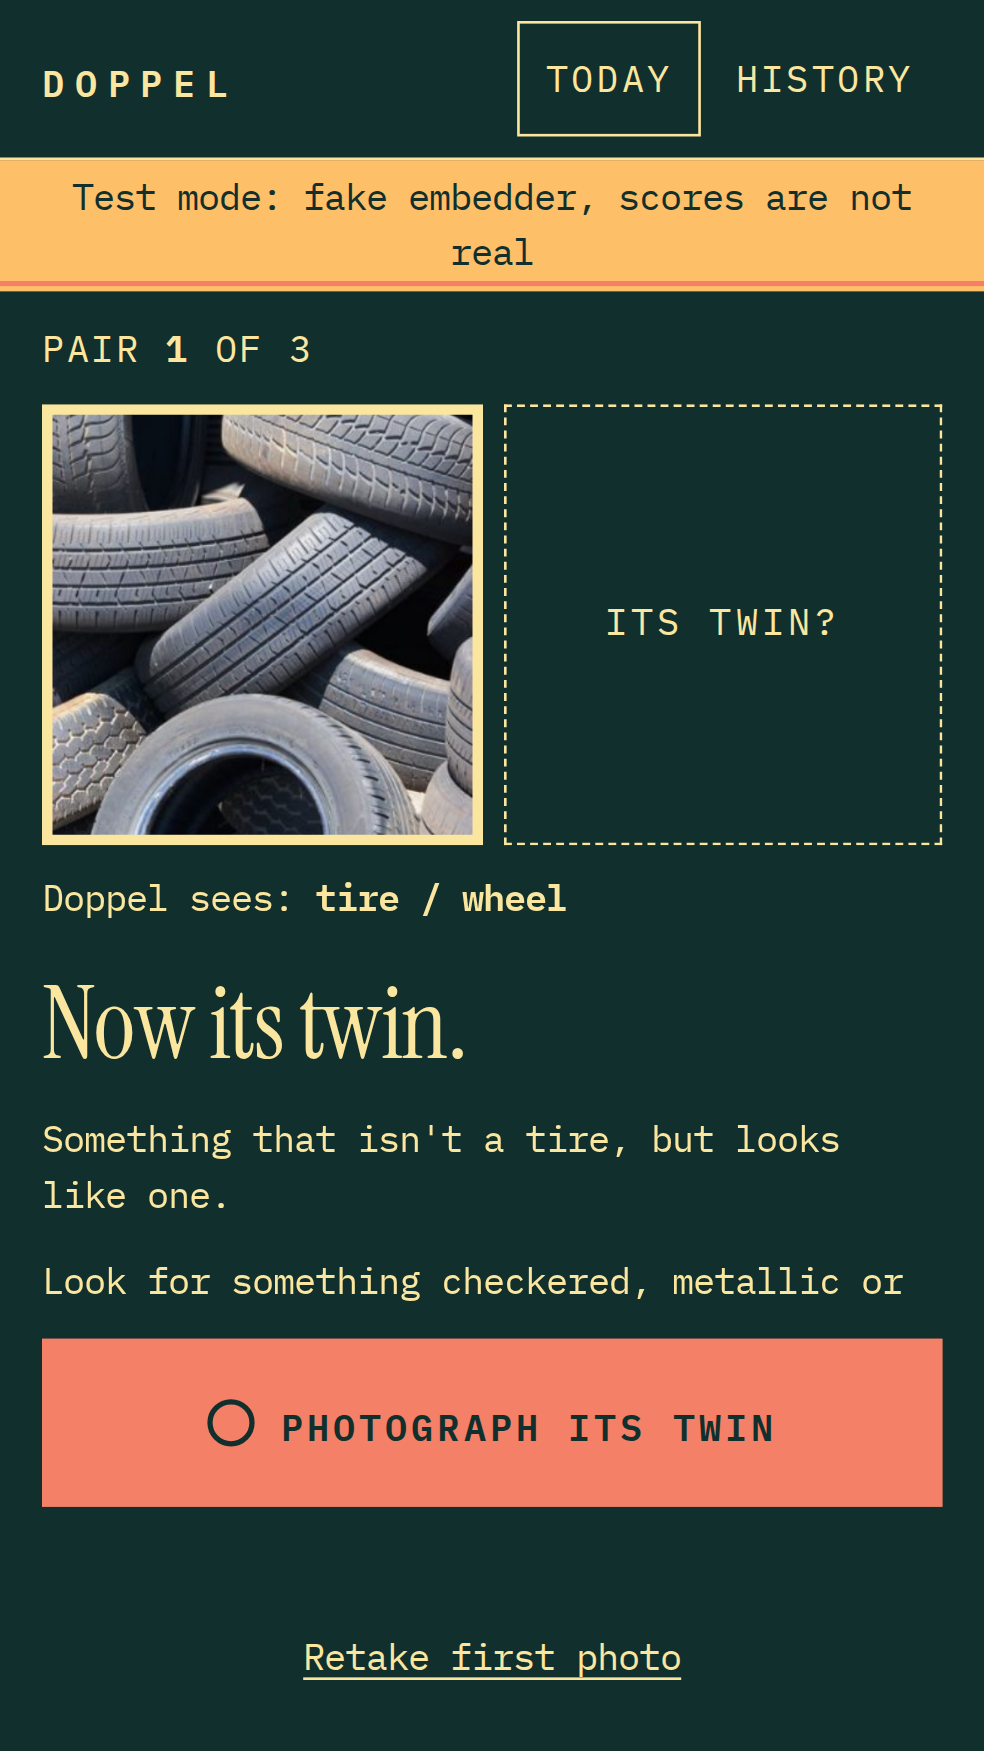
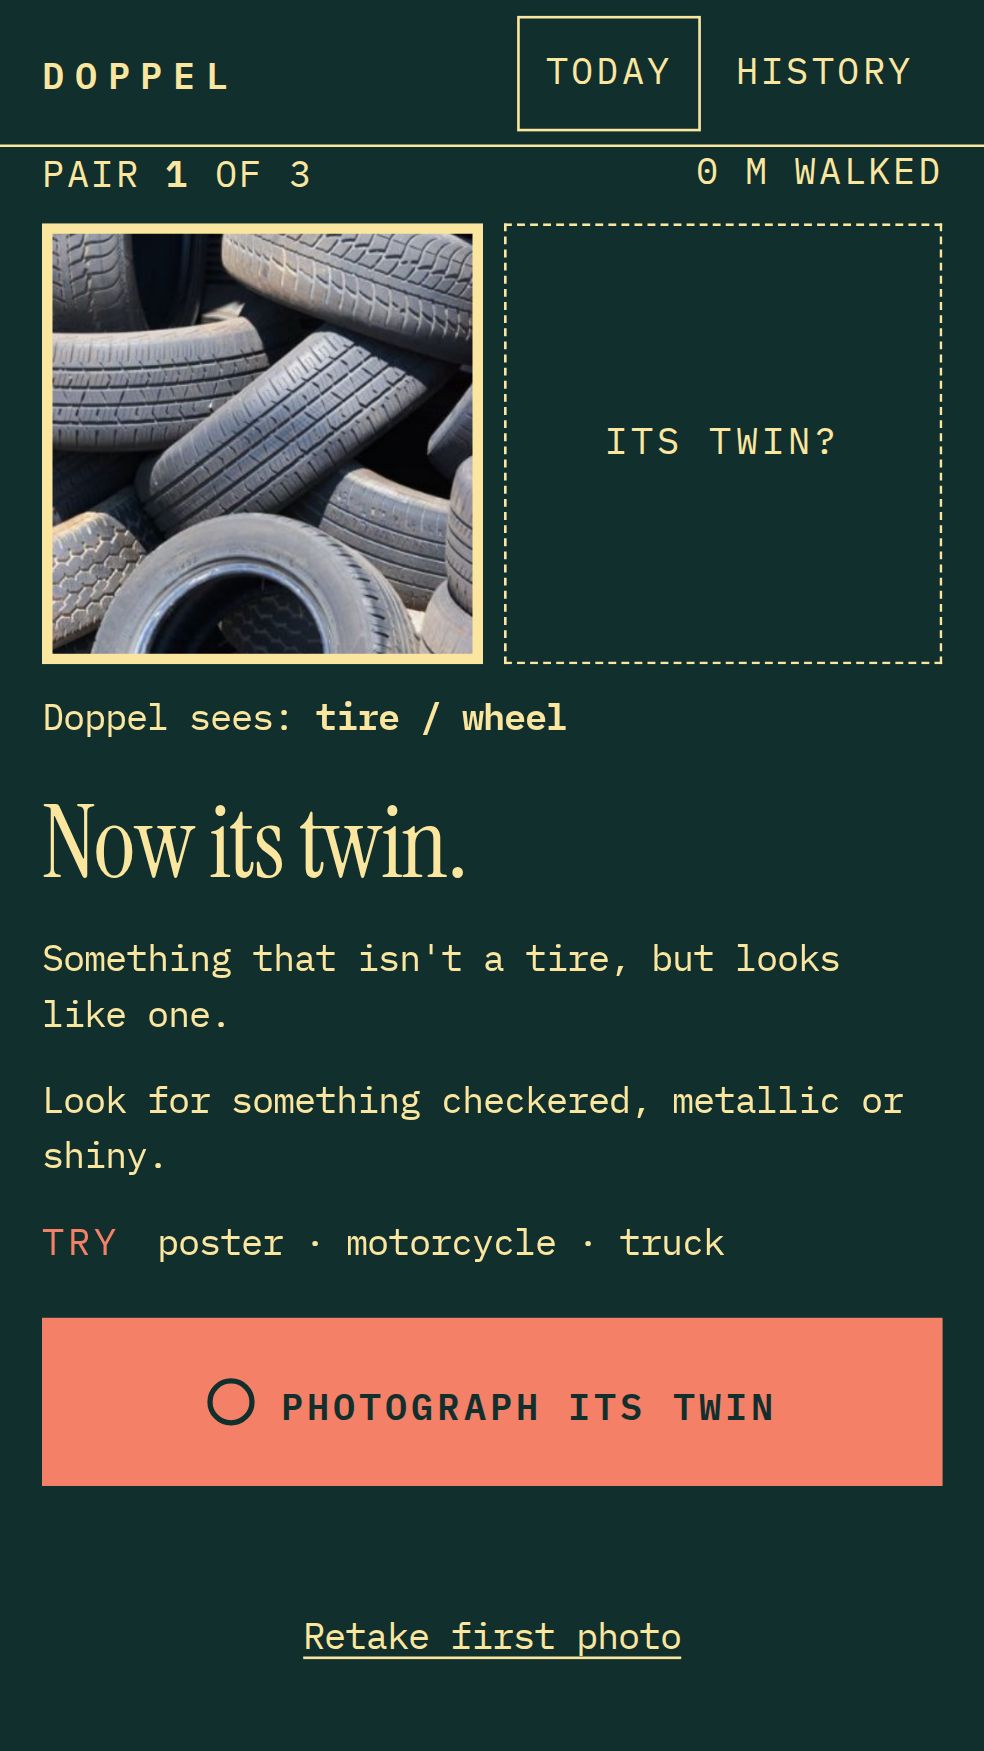
F7: one app shell: sticky header on every screen, one HUD row, frames at the same y

diff --git a/web/src/ui/screens.ts b/web/src/ui/screens.ts
@@ -15,11 +15,20 @@ const clock = (ms: number) => {
   return `${Math.floor(s / 60)}:${String(s % 60).padStart(2, "0")}`;
 };
 
+/**
+ * The one HUD row under the header on every game screen: "PAIR n OF 3" on the
+ * left, the phase's readout on the right (theme, walk timer/metres, metres walked).
+ */
 const hud = (pair: number, right = "") => `
   <div class="hud" aria-label="Progress">
     <span>PAIR <b data-testid="pair-n">${pair}</b> OF ${PAIRS_PER_DAY}</span>
-    <span>${right}</span>
+    <span class="hud-right" data-testid="hud-right">${right}</span>
   </div>`;
+
+const themeReadout = (theme?: string) => (theme ? `<span data-testid="theme">Today: ${esc(theme)}</span>` : "");
+const walkedReadout = (meters: number) => `<span data-testid="walked">${meters} M WALKED</span>`;
+/** Walk: the timer while GPS isn't usable, otherwise metres walked on this walk. */
+export const walkHud = (w: WalkStatus) => (w.mode === "gps" ? `${w.meters} M WALKED` : `${clock(w.msLeft)} LEFT`);
 
 /** A 4-step scale, Strangers to Uncanny, with only the current step filled. Always shown next to the band name, so it never rests on color alone. */
 export const bandMarks = (b: Band) => {
@@ -75,27 +84,25 @@ export function practiceView(p: Practice): string {
   const b = band(p.score);
   return `
     <div class="practice" aria-label="Practice reveal" data-testid="practice">
-      <p class="label" id="practice-label">A practice pair</p>
       <div class="pair together" id="practice-pair">
         ${slot("a", stack("practice-a", p.first.label, true), "", b)}
         ${slot("b", stack("practice-b", p.twin.label, true), "", b)}
       </div>
+      <p class="label" id="practice-label">A practice pair</p>
       <p class="labels">${esc(p.first.label)} <span aria-label="and">↔</span> ${esc(p.twin.label)}</p>
       <p class="score compact" data-value="${p.score}"><span class="n">${p.score}</span><span class="of">/100</span> <span class="band-inline">${bandMarks(b)} ${BAND_NAMES[b].toUpperCase()}</span></p>
       <p class="shared"><span class="label">What they share</span> Both: ${p.shared.map(esc).join(" · ")}</p>
     </div>`;
 }
 
-const themeLine = (theme?: string) => (theme ? `<p class="theme" data-testid="theme"><span class="label">Today</span> ${esc(theme)}</p>` : "");
 
 export function firstView(pair: number, ideas: string[], firstRun: boolean, practice?: Practice, theme?: string): string {
   if (firstRun && practice) {
     return `
     <section class="screen first" aria-label="First photo">
-      ${hud(pair)}
-      <h1 class="voice lede">Find two different things that look the same. Outside.</h1>
+      ${hud(pair, themeReadout(theme))}
       ${practiceView(practice)}
-      ${themeLine(theme)}
+      <h1 class="voice lede">Find two different things that look the same. Outside.</h1>
       <p class="sub privacy">Photos never leave your phone. Point it at things, not people.</p>
       <details class="ideas">
         <summary>Need an idea?</summary>
@@ -106,14 +113,13 @@ export function firstView(pair: number, ideas: string[], firstRun: boolean, prac
   }
   return `
     <section class="screen first" aria-label="First photo">
-      ${hud(pair)}
+      ${hud(pair, themeReadout(theme))}
       <div class="pair empty">
         ${slot("a", `<span class="slot-word">this</span>`)}
         ${slot("b", `<span class="slot-word">its twin</span>`)}
       </div>
       <h1 class="voice">${pair === 1 ? "Find two different things that look the same." : "Again. Start with anything outside."}</h1>
       <p class="sub">${pair === 1 ? "Photograph anything outside. Then walk, and find its twin." : "Then walk, and find its twin."}</p>
-      ${themeLine(theme)}
       ${firstRun ? `<p class="sub privacy">Photos never leave your phone. Point it at things, not people.</p>` : ""}
       <details class="ideas">
         <summary>Need an idea?</summary>
@@ -133,7 +139,7 @@ export const tryThese = (tries: string[]) => (tries.length ? `<p class="sub trie
 export function walkView(pair: number, label: string, w: WalkStatus, looks: string[] = [], alt?: string, tries: string[] = [], again = false): string {
   return `
     <section class="screen walk" aria-label="Walk">
-      ${hud(pair, `${w.meters} M WALKED`)}
+      ${hud(pair, `<span data-testid="walk-hud">${walkHud(w)}</span>`)}
       <div class="pair">
         ${slot("a", `<canvas id="photo-a" aria-label="Your first photo"></canvas>`, "", "neutral")}
         ${slot("b", `<div class="countdown">${walkReadout(w)}</div>`)}
@@ -158,10 +164,10 @@ export function walkReadout(w: WalkStatus): string {
 }
 
 
-export function twinView(pair: number, label: string, looks: string[] = [], alt?: string, tries: string[] = [], again = false): string {
+export function twinView(pair: number, label: string, looks: string[] = [], alt?: string, tries: string[] = [], again = false, meters = 0): string {
   return `
     <section class="screen twin" aria-label="Twin photo">
-      ${hud(pair)}
+      ${hud(pair, walkedReadout(meters))}
       <div class="pair">
         ${slot("a", `<canvas id="photo-a" aria-label="Your first photo"></canvas>`, "", "neutral")}
         ${slot("b", `<span class="slot-word">its twin?</span>`)}
@@ -181,11 +187,11 @@ export interface RevealExtras {
   secondKept: boolean; // after two tries: was the second twin the better one?
 }
 
-export function revealView(pair: number, p: Required<Pick<PairState, "first" | "twin" | "result">>, last: boolean, x: RevealExtras = { canRetry: false, tries: 1, secondKept: false }): string {
+export function revealView(pair: number, p: Required<Pick<PairState, "first" | "twin" | "result">>, last: boolean, x: RevealExtras = { canRetry: false, tries: 1, secondKept: false }, meters = 0): string {
   const r = p.result;
   return `
     <section class="screen reveal" aria-label="Reveal" data-band="${r.band}">
-      ${hud(pair)}
+      ${hud(pair, walkedReadout(meters))}
       <div class="pair together" id="pair">
         ${slot("a", stack("a", p.first.label, true), "", r.band)}
         ${slot("b", stack("b", p.twin.label, true), "", r.band)}
@@ -215,7 +221,7 @@ export function doneView(pairs: DonePair[], best: number, meters: number, nextDa
   const b = pairs[best];
   return `
     <section class="screen done" aria-label="Done for today">
-      <div class="hud"><span>DONE FOR TODAY</span><span data-testid="walked">${meters} M WALKED</span></div>
+      ${hud(pairs.length, walkedReadout(meters))}
       <p class="label">TODAY'S DOPPEL</p>
       <div class="pair together best">
         ${slot("a", stack(`best-a`, b.first), "", b.band)}

diff --git a/web/tests/e2e/shell.spec.ts b/web/tests/e2e/shell.spec.ts
@@ -1,0 +1,100 @@
+import { expect, test, type Page } from "@playwright/test";
+import path from "node:path";
+import { expectAccessible, expectNoHorizontalScroll, fixture } from "./helpers";
+
+// One app shell: the same header on every phase and route, one HUD row on every
+// game screen, and photo frames that start at the same y (no layout jump).
+const MEDIA = path.join(import.meta.dirname, "../../../docs/media/phases");
+
+async function shoot(page: Page, rel: string) {
+  await expect(page.locator("#photo")).toBeEnabled();
+  await page.locator("#photo").setInputFiles(fixture(rel));
+}
+
+for (const size of [{ width: 390, height: 844 }, { width: 375, height: 667 }]) {
+  test(`header, HUD and frames line up through a whole day at ${size.width}x${size.height}`, async ({ page }) => {
+    test.setTimeout(90_000);
+    await page.setViewportSize(size);
+    await page.clock.install({ time: new Date("2026-10-11T15:00:00-04:00") });
+    await page.goto("/?embedder=fake#/");
+    const headerY: number[] = [], frameY: Record<string, number> = {};
+    let n = 0;
+
+    const check = async (phase: string, opts: { hud?: boolean; frame?: boolean } = {}) => {
+      await page.evaluate(() => window.scrollTo(0, 0));
+      const header = page.locator(".topbar");
+      await expect(header).toBeVisible();
+      await expect(header.getByRole("link", { name: "DOPPEL" })).toBeVisible();
+      await expect(header.getByRole("link", { name: "Today" })).toBeVisible();
+      await expect(header.getByRole("link", { name: "History" })).toBeVisible();
+      const hb = (await header.boundingBox())!;
+      headerY.push(hb.y);
+      expect(hb.y, phase).toBe(0);
+      expect(Math.round(hb.height), phase).toBe(56); // fixed height (border-box, rule included)
+      const current = await header.locator("[aria-current]").textContent();
+      expect(current, phase).toBe(phase === "history" ? "History" : "Today");
+      if (opts.hud !== false) {
+        await expect(page.locator(".hud"), phase).toHaveCount(1);
+        await expect(page.locator(".hud").getByText(/^PAIR \d OF 3$/), phase).toBeVisible();
+      } else await expect(page.locator(".hud"), phase).toHaveCount(0);
+      if (opts.frame) frameY[phase] = (await page.locator(".pair .frame").first().boundingBox())!.y;
+      await expectAccessible(page, phase);
+      await expectNoHorizontalScroll(page);
+      await page.screenshot({ path: path.join(MEDIA, `${size.width}-${String(++n).padStart(2, "0")}-${phase}.png`) });
+    };
+
+    // the template starts at "85" and the count-up resets it to 0: wait for the developed state first
+    await expect(page.locator("#practice-pair")).toHaveClass(/developed/);
+    await page.clock.runFor(1500);
+    await expect(page.locator(".practice .score .n")).toHaveText("85");
+    // the first-run headline is fully above the dock, even on a short phone
+    const h1 = (await page.getByRole("heading", { level: 1 }).boundingBox())!, dock = (await page.locator(".dock").boundingBox())!;
+    expect(h1.y + h1.height).toBeLessThanOrEqual(dock.y);
+    await check("first-run", { frame: true });
+    await shoot(page, "twins/02-tire.jpg");
+    await expect(page.getByRole("region", { name: "Walk" })).toBeVisible();
+    await check("walk", { frame: true });
+    expect(await page.locator(".topbar").evaluate((el) => getComputedStyle(el).opacity)).toBe("0.72"); // dimmed, phone away
+    await page.clock.fastForward(46_000);
+    await expect(page.getByRole("region", { name: "Twin photo" })).toBeVisible();
+    await check("twin", { frame: true });
+    await shoot(page, "twins/02-donut.jpg");
+    await expect(page.getByRole("region", { name: "Reveal" })).toBeVisible();
+    await page.clock.runFor(2000);
+    await expect(page.getByTestId("score").locator(".n")).toHaveText((await page.getByTestId("score").getAttribute("data-value"))!);
+    await check("reveal", { frame: true });
+    await page.getByRole("button", { name: /Try another twin/ }).click();
+    await expect(page.getByRole("region", { name: "Walk" })).toBeVisible();
+    await check("retry-walk", { frame: true });
+    await page.clock.fastForward(46_000);
+    await expect(page.getByRole("region", { name: "Twin photo" })).toBeVisible();
+    await check("retry-twin", { frame: true });
+    await shoot(page, "strangers/03-lake.jpg");
+    await expect(page.getByTestId("best-of")).toBeVisible();
+    await page.clock.runFor(2000);
+    await expect(page.getByTestId("score").locator(".n")).toHaveText((await page.getByTestId("score").getAttribute("data-value"))!);
+    await check("retry-reveal", { frame: true });
+    await page.getByRole("button", { name: "Next pair" }).click();
+    await check("first", { frame: true });
+    for (const [a, b] of [["twins/01-cloud.jpg", "twins/01-cotton.jpg"], ["twins/05-pinecone.jpg", "twins/05-artichoke.jpg"]]) {
+      await shoot(page, a);
+      await expect(page.getByRole("region", { name: "Walk" })).toBeVisible();
+      await page.clock.fastForward(46_000);
+      await expect(page.getByRole("region", { name: "Twin photo" })).toBeVisible();
+      await shoot(page, b);
+      await expect(page.getByRole("region", { name: "Reveal" })).toBeVisible();
+      await page.clock.runFor(2000);
+      await page.getByRole("button", { name: /Next pair|See today/ }).click();
+    }
+    await expect(page.getByRole("region", { name: "Done for today" })).toBeVisible();
+    await page.clock.runFor(500);
+    await check("done");
+    await page.getByRole("link", { name: "History" }).click();
+    await expect(page.getByRole("heading", { name: "Past Doppels" })).toBeVisible();
+    await check("history", { hud: false });
+
+    expect(new Set(headerY).size).toBe(1);
+    const ys = Object.values(frameY);
+    expect(Math.max(...ys) - Math.min(...ys), JSON.stringify(frameY)).toBeLessThanOrEqual(0.5);
+  });
+}

diff --git a/web/src/style.css b/web/src/style.css
@@ -27,10 +27,14 @@ a { color: var(--fg); text-underline-offset: 3px; }
 .sr { position: absolute; width: 1px; height: 1px; overflow: hidden; clip-path: inset(50%); white-space: nowrap; }
 
 /* ---------- frame */
+/* One app shell: the header is the same on every route and phase (sticky, fixed height). */
+:root { --header-h: 56px; --hud-h: 40px; }
 .topbar {
+  position: sticky; top: 0; z-index: 10;
   display: flex; align-items: center; justify-content: space-between; gap: 12px;
-  padding: max(8px, env(safe-area-inset-top)) var(--gutter) 8px;
-  border-bottom: var(--rule);
+  box-sizing: border-box; height: calc(var(--header-h) + env(safe-area-inset-top));
+  padding: env(safe-area-inset-top) var(--gutter) 0;
+  border-bottom: var(--rule); background: var(--bg);
 }
 .brand { font-weight: 600; letter-spacing: .32em; text-decoration: none; min-height: 44px; display: inline-flex; align-items: center; }
 .topbar nav { display: flex; gap: 2px; }
@@ -45,16 +49,18 @@ main { max-width: 520px; margin: 0 auto; padding: 0 var(--gutter); outline: none
 /* ---------- type */
 .label { letter-spacing: .14em; text-transform: uppercase; color: var(--accent); }
 .hud {
-  display: flex; justify-content: space-between; gap: 8px; margin: 0;
-  padding: 10px 0; letter-spacing: .1em; text-transform: uppercase; font-variant-numeric: tabular-nums;
+  display: flex; justify-content: space-between; align-items: center; gap: 8px; margin: 0;
+  height: var(--hud-h); padding: 0; letter-spacing: .1em; text-transform: uppercase; font-variant-numeric: tabular-nums;
+  white-space: nowrap;
 }
+.hud-right { overflow: hidden; text-overflow: ellipsis; min-width: 0; }
 .hud b { font-weight: 600; }
 .voice { font-family: var(--serif); font-weight: 400; font-size: var(--t-l); line-height: 1.05; margin: 18px 0 8px; letter-spacing: -.01em; }
 .sub { margin: 6px 0; }
 .privacy { color: var(--accent); }
 
 /* ---------- screens: a column whose dock sits at the bottom, under the thumb */
-.screen { display: flex; flex-direction: column; min-height: calc(100dvh - 61px); padding-bottom: 8px; }
+.screen { display: flex; flex-direction: column; min-height: calc(100dvh - var(--header-h) - env(safe-area-inset-top)); padding-bottom: 8px; }
 
 /* ---------- the pair frame */
 .pair { display: grid; grid-template-columns: 1fr 1fr; gap: 8px; overflow: clip; }
@@ -104,17 +110,15 @@ main { max-width: 520px; margin: 0 auto; padding: 0 var(--gutter); outline: none
 .shared .label { display: block; }
 
 /* ---------- first run: practice reveal */
-.lede { margin-top: 14px; }
-.practice { border-top: var(--rule); padding-top: 8px; }
-.practice .label { margin: 0 0 8px; }
-.practice .pair { max-width: 300px; margin: 0 auto; }
+.lede { margin-top: 10px; }
+.practice .label { margin: 8px 0 0; display: block; text-align: center; }
 .score.compact { font-size: var(--t-m); }
 .score.compact .n { font-size: 1em; }
 .band-inline { font-size: var(--t-s); font-weight: 400; letter-spacing: .14em; margin-left: 8px; vertical-align: middle; }
 
 /* ---------- walk (pocket screen): no chrome, nothing to stare at */
-body[data-phase="walking"] .topbar, body[data-phase="walking"] .test-banner { display: none; }
-.walk { min-height: 100dvh; justify-content: center; }
+/* phone away: the header stays (and stays tappable) but steps back */
+body[data-phase="walking"] .topbar { opacity: .72; }
 .walkbar { height: 8px; border: var(--rule); margin: 14px 0; }
 .walkbar > div { height: 100%; background: var(--fg); transition: width .25s linear; }
 
@@ -185,6 +189,12 @@ body[data-phase="walking"] .topbar, body[data-phase="walking"] .test-banner { di
 .debug dl { display: grid; grid-template-columns: auto 1fr; gap: 4px 12px; margin: 0 0 12px; }
 .debug dd { margin: 0; font-variant-numeric: tabular-nums; }
 .debug pre { white-space: pre-wrap; word-break: break-all; }
+
+/* short phones: keep the first-run headline above the dock (frames stay put, the practice pair's detail goes) */
+@media (max-height: 700px) {
+  .practice .shared { display: none; }
+  .practice .label { margin-top: 4px; }
+}
 
 @keyframes pulse { 50% { opacity: .3; } }
 @media (prefers-reduced-motion: reduce) {

diff --git a/web/src/main.ts b/web/src/main.ts
@@ -18,7 +18,7 @@ import { band, checkShot, checkTwin, judgePair, PROBLEM_TEXT, readPhoto, suggest
 import { mountDebug } from "./ui/debug";
 import { esc, render } from "./ui/dom";
 import { loadModelWithStatus } from "./ui/model-status";
-import { doneView, firstView, historyView, revealView, twinView, walkPct, walkReadout, walkView, type DonePair } from "./ui/screens";
+import { doneView, firstView, historyView, revealView, twinView, walkHud, walkPct, walkReadout, walkView, type DonePair } from "./ui/screens";
 import { loadVocab } from "./vocab";
 import { addFix, denyGps } from "./walk";
 
@@ -212,7 +212,7 @@ async function showToday(seq: number, force = false) {
     return void photoInto(app.querySelector("#photo-a"), pr.first!.id);
   }
   if (p.kind === "twin") {
-    render(app, twinView(p.pair, pr.first!.label, pr.first!.looks ?? [], pr.first!.alt, pr.first!.tries ?? [], retrying(pr)));
+    render(app, twinView(p.pair, pr.first!.label, pr.first!.looks ?? [], pr.first!.alt, pr.first!.tries ?? [], retrying(pr), metersWalked(day)));
     startGps(); // keep counting metres until the twin is in
     void photoInto(app.querySelector("#photo-a"), pr.first!.id);
     wireRetake();
@@ -220,7 +220,7 @@ async function showToday(seq: number, force = false) {
   }
   if (p.kind === "reveal") {
     const done = pr as Required<typeof pr>;
-    render(app, revealView(p.pair, done, p.pair >= 3, { canRetry: canRetry(pr), tries: pr.tries ?? 1, secondKept: !!pr.lastTry && pr.lastTry.twin.id === pr.twin!.id }));
+    render(app, revealView(p.pair, done, p.pair >= 3, { canRetry: canRetry(pr), tries: pr.tries ?? 1, secondKept: !!pr.lastTry && pr.lastTry.twin.id === pr.twin!.id }, metersWalked(day)));
     const tone = done.result.band;
     await Promise.all([fillStack(app.querySelector('[data-stack="a"]'), done.first.id, tone), fillStack(app.querySelector('[data-stack="b"]'), done.twin.id, tone)]);
     if (seq !== routeSeq) return;

diff --git a/web/tests/e2e/day.spec.ts b/web/tests/e2e/day.spec.ts
@@ -183,7 +183,7 @@ test("walking 50 m with GPS unlocks the twin and counts the distance", async ({ 
 
 test("Need an idea? shows 3 hints, the same all day, different the next day; the daily theme shows", async ({ page }) => {
   await open(page);
-  await expect(page.getByTestId("theme")).toHaveText(/^Today (Textures|Round things|Stripes and lines|Soft things|Rough things|Shiny things)$/);
+  await expect(page.getByTestId("theme")).toHaveText(/^Today: (Textures|Round things|Stripes and lines|Soft things|Rough things|Shiny things)$/);
   const theme = await page.getByTestId("theme").textContent();
   await page.reload();
   await expect(page.getByTestId("theme")).toHaveText(theme!);

diff --git a/web/tests/e2e/photos.spec.ts b/web/tests/e2e/photos.spec.ts
@@ -27,6 +27,7 @@ test("practice pair, reveal and history end on the real photos, in Wada mats", a
   // practice pair: developing flash, then originals
   const pa = page.locator('[data-stack="practice-a"]');
   await expect.poll(() => colors(pa.locator(".photo"))).toBeGreaterThan(200);
+  await expect(page.locator("#practice-pair")).toHaveClass(/developed/);
   await page.clock.runFor(1500);
   await expect(page.locator(".practice .score .n")).toHaveText("85");
   await expect.poll(() => opacity(pa.locator(".print"))).toBe("0");
